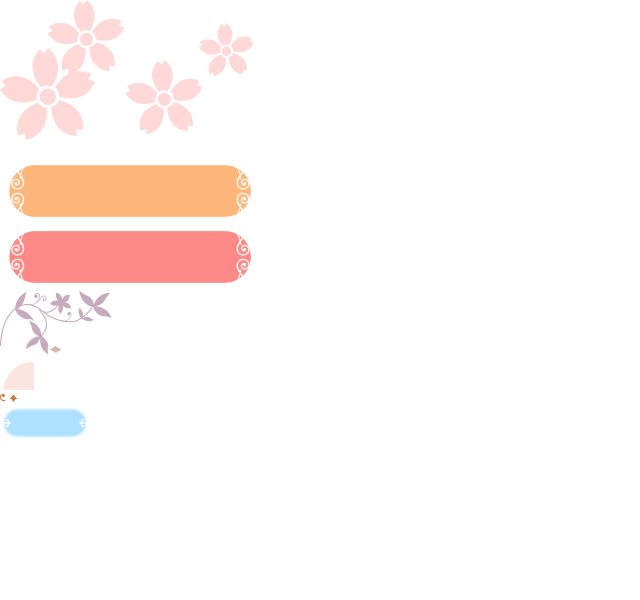
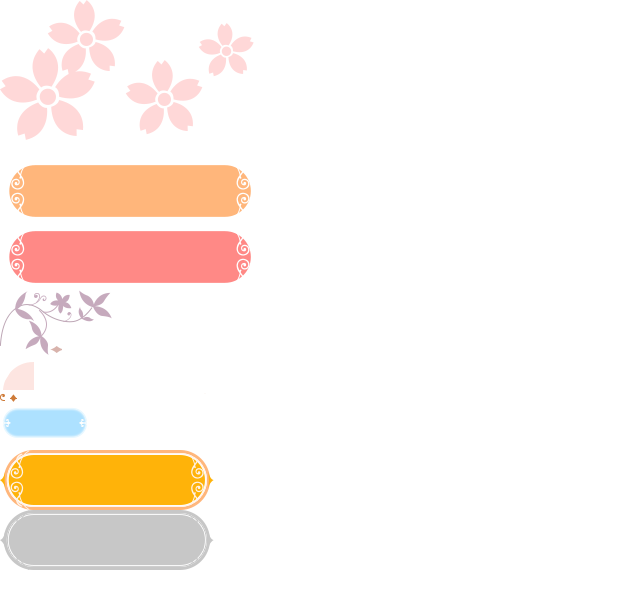
创建弹窗

Changed region(s): [[0.0, 0.75, 0.3438, 0.96]]

diff --git a/data-qjnn-tmp.html b/data-qjnn-tmp.html
@@ -105,6 +105,90 @@
     </div><!--/clothes-->
 </div><!--/clothes_wrap-->
 
+<div class="dialog_attr">
+	<div class="dialog_content dialog_five">
+    	<div class="item">
+        	<a class="btn_radio">华丽</a>
+            <a class="btn_radio on">简约</a>
+        </div>
+        <div class="item">
+        	<a class="btn_radio">可爱</a>
+            <a class="btn_radio">成熟</a>
+        </div>
+        <div class="item">
+        	<a class="btn_radio">优雅</a>
+            <a class="btn_radio">活泼</a>
+        </div>
+        <div class="item">
+        	<a class="btn_radio">性感</a>
+            <a class="btn_radio">清纯</a>
+        </div>
+        <div class="item">
+        	<a class="btn_radio">保暖</a>
+            <a class="btn_radio">清凉</a>
+        </div>
+    </div>
+    <i class="line_l"></i>
+    <i class="line_m"></i>
+    <i class="line_r"></i>
+    <div class="handle">
+    	<a class="btn_cancel">取消</a>
+        <a class="btn_sure">确定</a>
+    </div>
+</div>
+<br>
+<div class="dialog_attr">
+	<div class="dialog_content dialog_arena">
+        <div class="item"><a class="btn_arena on">金色音乐厅</a></div>
+        <div class="item"><a class="btn_arena">金色音乐金色音乐厅厅</a></div>
+        <div class="item"><a class="btn_arena">金色音乐厅</a></div>
+        <div class="item"><a class="btn_arena">金色音乐厅</a></div>
+        <div class="item"><a class="btn_arena">金色音乐厅</a></div>
+        <div class="item"><a class="btn_arena">金色音乐厅</a></div>
+        <div class="item"><a class="btn_arena">金色音乐厅</a></div>
+        <div class="item"><a class="btn_arena">金色音乐厅</a></div>
+        <div class="item"><a class="btn_arena">金色音乐厅</a></div>
+        <div class="item"><a class="btn_arena">金色音乐厅</a></div>
+        <div class="item"><a class="btn_arena">金色音乐厅</a></div>
+        <div class="item"><a class="btn_arena">金色音乐厅</a></div>
+    </div>
+    <i class="line_l"></i>
+    <i class="line_m"></i>
+    <i class="line_r"></i>
+    <div class="handle">
+    	<a class="btn_cancel">取消</a>
+        <a class="btn_sure">确定</a>
+    </div>
+</div>
+<br>
+<div class="dialog_det">
+	<div class="title">
+    	<div class="l"><i></i></div>
+        <div class="m">乖顺使者的·马甲</div>
+        <div class="r"><i></i></div>
+    </div>
+    <div class="content">
+    	<div class="item">华丽&middot;S</div>
+        <div class="item">华丽&middot;S</div>
+        <div class="item">华丽&middot;S</div>
+        <div class="item">华丽&middot;S</div>
+        <div class="item">华丽&middot;S</div>
+    </div>
+    <div class="spe">
+    	<div>特殊属性1</span>
+        <div>特殊属性2</span>
+    </div>
+    <div class="title">
+    	<div class="l"><i></i></div>
+        <div class="m">获取途径</div>
+        <div class="r"><i></i></div>
+    </div>
+    <div class="content2">
+    	<div>6-7（少女级）</div>
+        <div>6-7（少女级）</div>
+    </div>
+</div>
+
 <script type="text/javascript" src="js/jquery-2.1.3.min.js"></script>
 <script type="text/javascript" src="js/iscroll-lite.js"></script>
 <script type="text/javascript">

diff --git a/css/qjnn.css b/css/qjnn.css
@@ -69,13 +69,32 @@ body{ background:#f9ddd3 url(../images/data-qjnn-bg.jpg) no-repeat fixed; backgr
 .clothes .item .l .b div{ width:50%; display:table-cell; text-align:center}
 .clothes .item .l .b span{ color:#456395; width:45px; height:19px; line-height:19px; text-align:center; background:url(../images/data-qjnn-tmp.png) 0 -202px no-repeat; background-size:320px; display:inline-block}
 .clothes .item .r{ width:30px; display:table-cell; background:#ffb67b; border-radius:4px; color:#fff; font-size:2rem; vertical-align:middle; text-align:center}
-
-
-
-
-
-
-
+/*五属性弹窗*/
+.dialog_attr{ background:#fff; border-radius:10px; width:260px; padding:18px 0; position:relative}
+@media screen and (min-width:320px){
+	.dialog_attr{width:300px}
+}
+.dialog_five{ overflow:hidden}
+.dialog_five .item{ float:left; width:32%; border-right:1px solid #ffb67b; text-align:center; margin-bottom:28px}
+.dialog_five .item:nth-child(3){ border:none}
+.dialog_five .item .btn_radio{ border:1px solid #ffb67b; display:block; margin:0 20px; padding:2px 0 1px; border-radius:20px; color:#ffb67b; font-size:1.3rem; cursor:pointer}
+.dialog_five .item .btn_radio.on,.dialog_arena .btn_arena.on{ background:#ffb67b; color:#fff}
+.dialog_five .item .btn_radio:first-child{ margin-bottom:9px}
+.dialog_attr .line_l,.dialog_attr .line_r{ background:url(../images/data-qjnn-tmp.png) -25px -173px no-repeat; background-size:320px; position:absolute; width:6px; height:4px; left:20px; bottom:60px}
+.dialog_attr .line_r{ left:auto; right:20px; transform:rotateY(180deg); -webkit-transform:rotateY(180deg)}
+.dialog_attr .line_m{ height:1px; left:25px; right:25px; bottom:62px; position:absolute; background:#d8b3ac}
+.dialog_attr .handle{ overflow:hidden}
+.dialog_attr .handle a{ background:url(../images/data-qjnn-tmp.png) 0 -225px no-repeat; background-size:320px; width:107px; height:30px; line-height:30px; display:block; text-align:center; color:#fff; font-size:1.3rem; cursor:pointer}
+.dialog_attr .handle a.btn_cancel{ float:left; color:#454545; background-position:0 -255px; margin-left:20px}
+.dialog_attr .handle a.btn_sure{ float:right; margin-right:20px}
+.dialog_arena{ height:160px; overflow-y:auto; margin-bottom:28px}
+.dialog_arena .item{ float:left; width:50%; text-align:center}
+.dialog_arena .btn_arena{ border:1px solid #ffb67b; margin:0 20px 9px; padding:2px 0 1px; border-radius:20px; color:#ffb67b; font-size:1.3rem; cursor:pointer; display:block; white-space:nowrap; overflow:hidden; text-overflow:ellipsis}
+/*详情弹窗*/
+.dialog_det{ background:#fff; border-radius:10px; width:260px; padding:18px 0; position:relative}
+@media screen and (min-width:320px){
+	.dialog_det{width:300px}
+}
 
 
 
